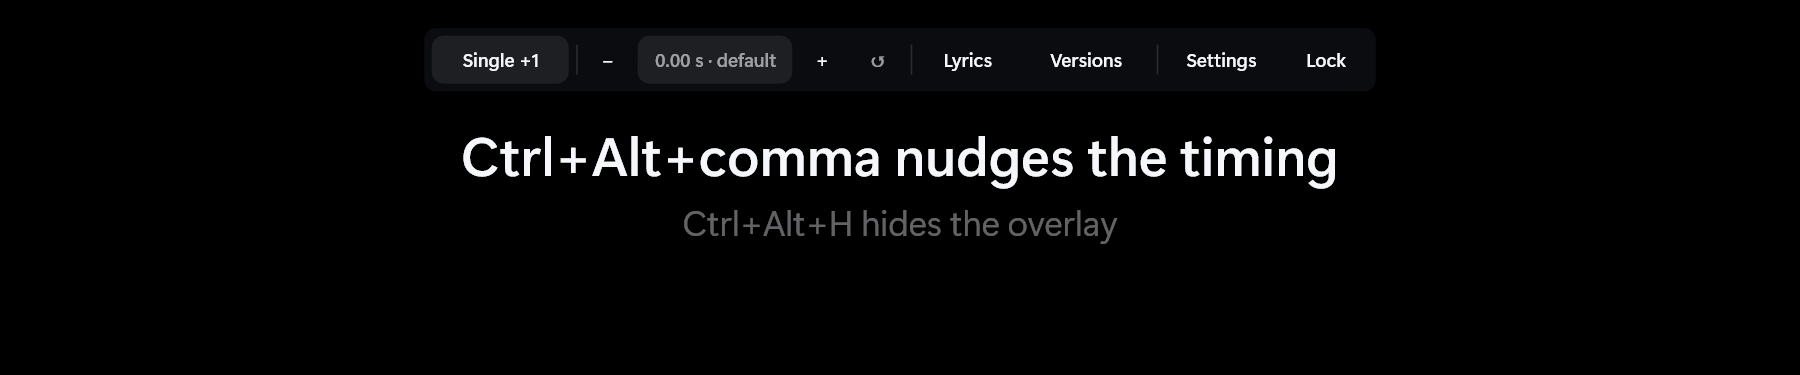
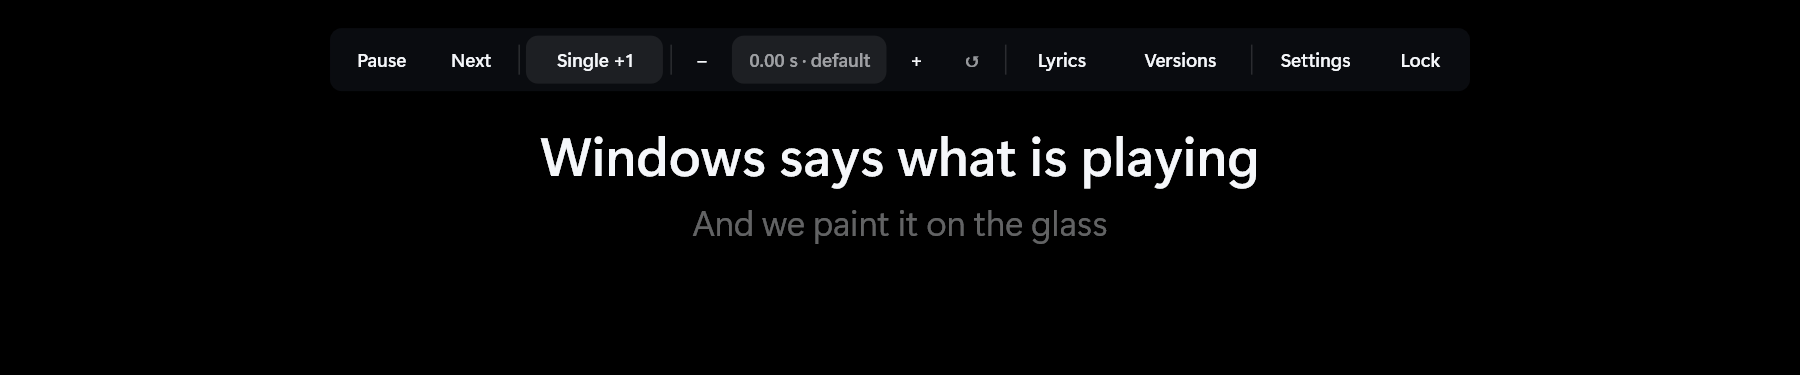
Refresh the final documentation set: stage, art, transport, settings
The last visual pass, all captured from the finished build:

- overlay-controls.png now leads with Pause/Next as well as the layout chip,
  timing, windows and Lock; the bar measures ~759 DIP inside the 1200-DIP
  window, so nothing is clipped.
- lyric-viewer.png is a real TIDAL track: album art in the header, real
  timestamps, the timing toolbar and the full footer (Publish... included).
- overlay-info-art.png is new: a real start-of-track pop-up with the 28 DIP
  thumbnail, proving the AOT-probed imaging path live.
- stage-mode.png is new: the full-monitor black stage with large centred
  lyrics; --stage=green was sampled as exactly (0,255,0) for chroma keying.
- settings-oled.png and settings-behaviour.png now show every final row
  (palettes, active-line weight, stage group, and the microphone hide). They
  are captured at 780x680 DIP because 10 Appearance rows and 9 Behaviour rows
  do not fit the default 780x584 viewport; the scroll viewport remains the
  supported way to see them at the default size.

Measurements in README/development/sonarqube move to the 0.4.0-dev12 analysis:
gate OK, 0 open issues, 37.9 % coverage, 4,688/2,782 complexity over 18,902
ncloc, 17 probes / 676 checks, 11.0 MB executable.

diff --git a/docs/sonarqube.md b/docs/sonarqube.md
@@ -39,7 +39,7 @@ For CI, add `/d:sonar.qualitygate.wait=true` to `begin` so a failing gate fails 
 
 ## What is in scope
 
-Only what the solution compiles: `src/Overlyric`, 68 source files, ~17.9k non-comment lines. The
+Only what the solution compiles: `src/Overlyric`, 70 source files, ~18.9k non-comment lines. The
 exclusions in `SonarQube.Analysis.xml` cover everything else — `probe/` (the experiments, not in
 `Overlyric.slnx`), `docs/`, `installer/`, `tools/`, `dist/`, `.dsh-tmp/`, `bin/` and `obj/`.
 Without them the project would list those files as "not analyzed" and their lines would count
@@ -63,11 +63,11 @@ it collected. `SonarQube.Analysis.xml` points the analysis at `coverage/probes.x
 (`sonar.cs.cobertura.reportsPaths`); run the script before `begin`, or the analysis imports nothing.
 `coverage/` is git-ignored.
 
-Measured on 27 October 2026 (analysis 0.4.0-dev9): the sixteen probes compile 2,938 source lines and
-cover 2,449 of them (83.4 %), and Sonar reports 38.0 % on its combined line-and-branch metric over
-the whole project. The rest is the layer the probes cannot reach: `AppHost`, the window classes,
-`Interop\`, `AudioSessions` and the DirectComposition host need a desktop session, a real player and
-a GPU.
+Measured on 27 October 2026 (analysis 0.4.0-dev12): the seventeen probes compile 3,161 source lines
+and cover 2,595 of them (82.1 %), and Sonar reports 37.9 % on its combined line-and-branch metric
+over the whole project. The rest is the layer the probes cannot reach: `AppHost`, the window
+classes, `Interop\`, `AudioSessions` and the DirectComposition host need a desktop session, a real
+player and a GPU.
 
 New code is usually exactly that untestable layer: the 0.3.3 change measured 6.1 % of new-code
 coverage against the default gate's 80 % bar. That is why the project does not use that condition;
@@ -91,9 +91,9 @@ The first full analysis (0.3.1, 49 files) reported 74 open issues: 51 `SYSLIB105
 `LibraryImport` instead of `DllImport`), 6 `S1244` (exact floating-point comparison) and 17 spread
 over `CA1822`, `CA1859`, `CA1806`, `CA1068`, `S6640`, `S1751` and `S8949`. All of them were fixed
 in code - no issue was marked accepted or false positive - and every analysis since then has
-reported 0 open issues and 0 new violations. The 0.4.0-dev9 analysis (27 October 2026) reports
-38.0 % overall coverage against the 30 % floor, no new violations, 4,408 cyclomatic and 2,625
-cognitive complexity over 17,882 non-comment lines, and 0.5 % duplicated lines: a green gate under
+reported 0 open issues and 0 new violations. The 0.4.0-dev12 analysis (27 October 2026) reports
+37.9 % overall coverage against the 30 % floor, no new violations, 4,688 cyclomatic and 2,782
+cognitive complexity over 18,902 non-comment lines, and 0.5 % duplicated lines: a green gate under
 `Overlyric`.
 
 ## Agents (DSH)

diff --git a/docs/usage.md b/docs/usage.md
@@ -185,6 +185,10 @@ inside the start-of-track info pop-up. It is decoded once per track at up to 160
 gpu bitmap; a player that publishes none simply gets the text-only layout, and a failed decode never
 affects the lyrics.
 
+![The start-of-track pop-up with album art](images/overlay-info-art.png)
+
+*A real track's thumbnail in the info pop-up: the art, the track line and what the lookup found.*
+
 ## Stage mode
 
 **Tray → Stage mode** (or `--stage`, or **Settings → Appearance → Stage mode**) turns the overlay
@@ -193,6 +197,11 @@ the backdrop is opaque black (or chroma-key green with **Chroma-key green**), th
 and centred, and the header, progress bar and control bar are gone. It is display-only, so turning
 it on locks the overlay. Turn it off from the tray or with `--stage=off`; the normal overlay comes
 back exactly as it was.
+
+![Stage mode](images/stage-mode.png)
+
+*The stage: a full-monitor black field, large centred lyrics, no bar or header. `--stage=green` uses
+chroma-key green for stream compositing instead.*
 
 ## Command line and scripting
 

diff --git a/docs/README.md b/docs/README.md
@@ -59,6 +59,11 @@ backdrop, so the black is the capture background rather than a theme.
 | ![The Timing settings section](images/settings-timing.png) | ![The Advanced settings section](images/settings-advanced.png) |
 | The current output, the offset in force, and which override layer supplied it. | The folders, the cache size and clearing it, and the version in the footer. |
 
+| Stage mode | Album art |
+| --- | --- |
+| ![The stage mode display](images/stage-mode.png) | ![The info pop-up with album art](images/overlay-info-art.png) |
+| A full-monitor audience field, black or chroma-key green. | The player's thumbnail in the start-of-track pop-up. |
+
 ![The Behaviour settings section](images/settings-behaviour.png)
 
 **Behaviour** is where the overlay gets out of the way: pause / no-lyrics / instrumental hides, the

diff --git a/docs/development.md b/docs/development.md
@@ -82,7 +82,7 @@ rendering over a running full-screen game:
 | Working set | **~65 MB**, flat over 3+ minutes |
 | Private commit | ~99 MB |
 | CPU | **~0.2 s per 150 s** of playback (≈0.15 % of one core) |
-| Executable | 10.5 MB, single file, no .NET runtime installed |
+| Executable | 11.0 MB, single file, no .NET runtime installed |
 | Handles / threads | ~1280 / ~25 |
 
 Getting there took fixing three things that are easy to get wrong, all found by measuring rather than

diff --git a/README.md b/README.md
@@ -155,7 +155,7 @@ Measured on Windows 11, 3840×2160 at 150 % with TIDAL playing over a running ga
 | --- | --- |
 | Working set | ~65 MB, flat over 3+ minutes |
 | CPU | ~0.2 s per 150 s of playback (≈0.15 % of one core) |
-| Executable | 10.5 MB, single file, no .NET runtime installed |
+| Executable | 11.0 MB, single file, no .NET runtime installed |
 | Handles / threads | ~1280 / ~25 |
 
 ```powershell
